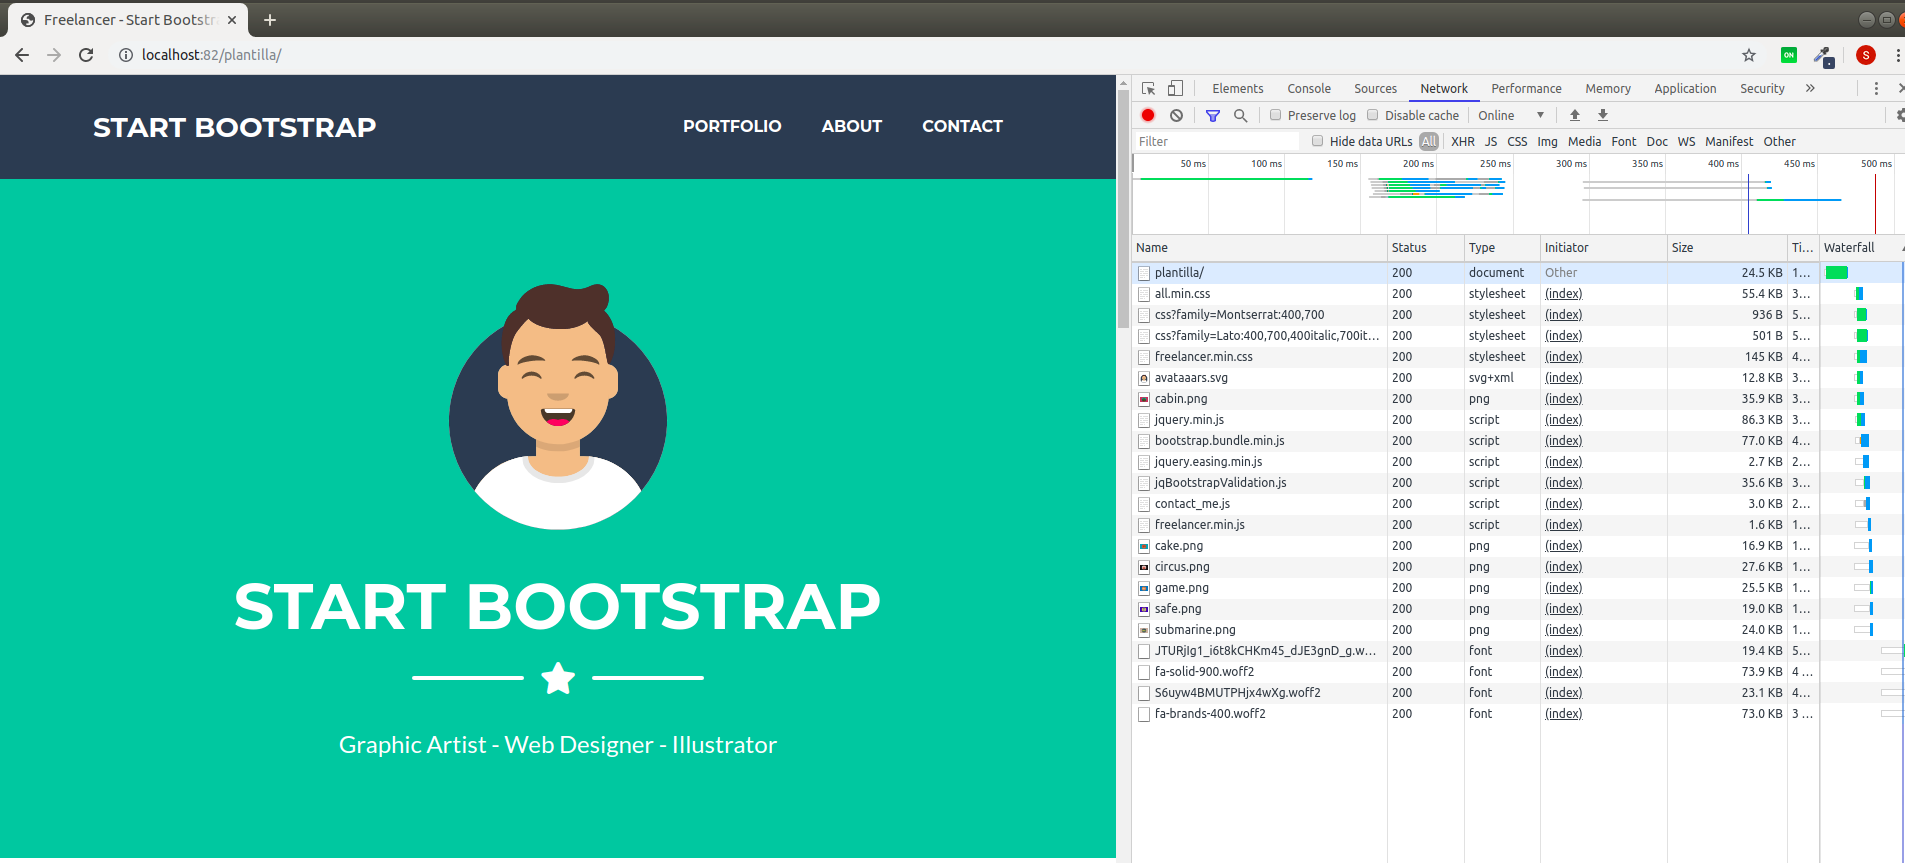
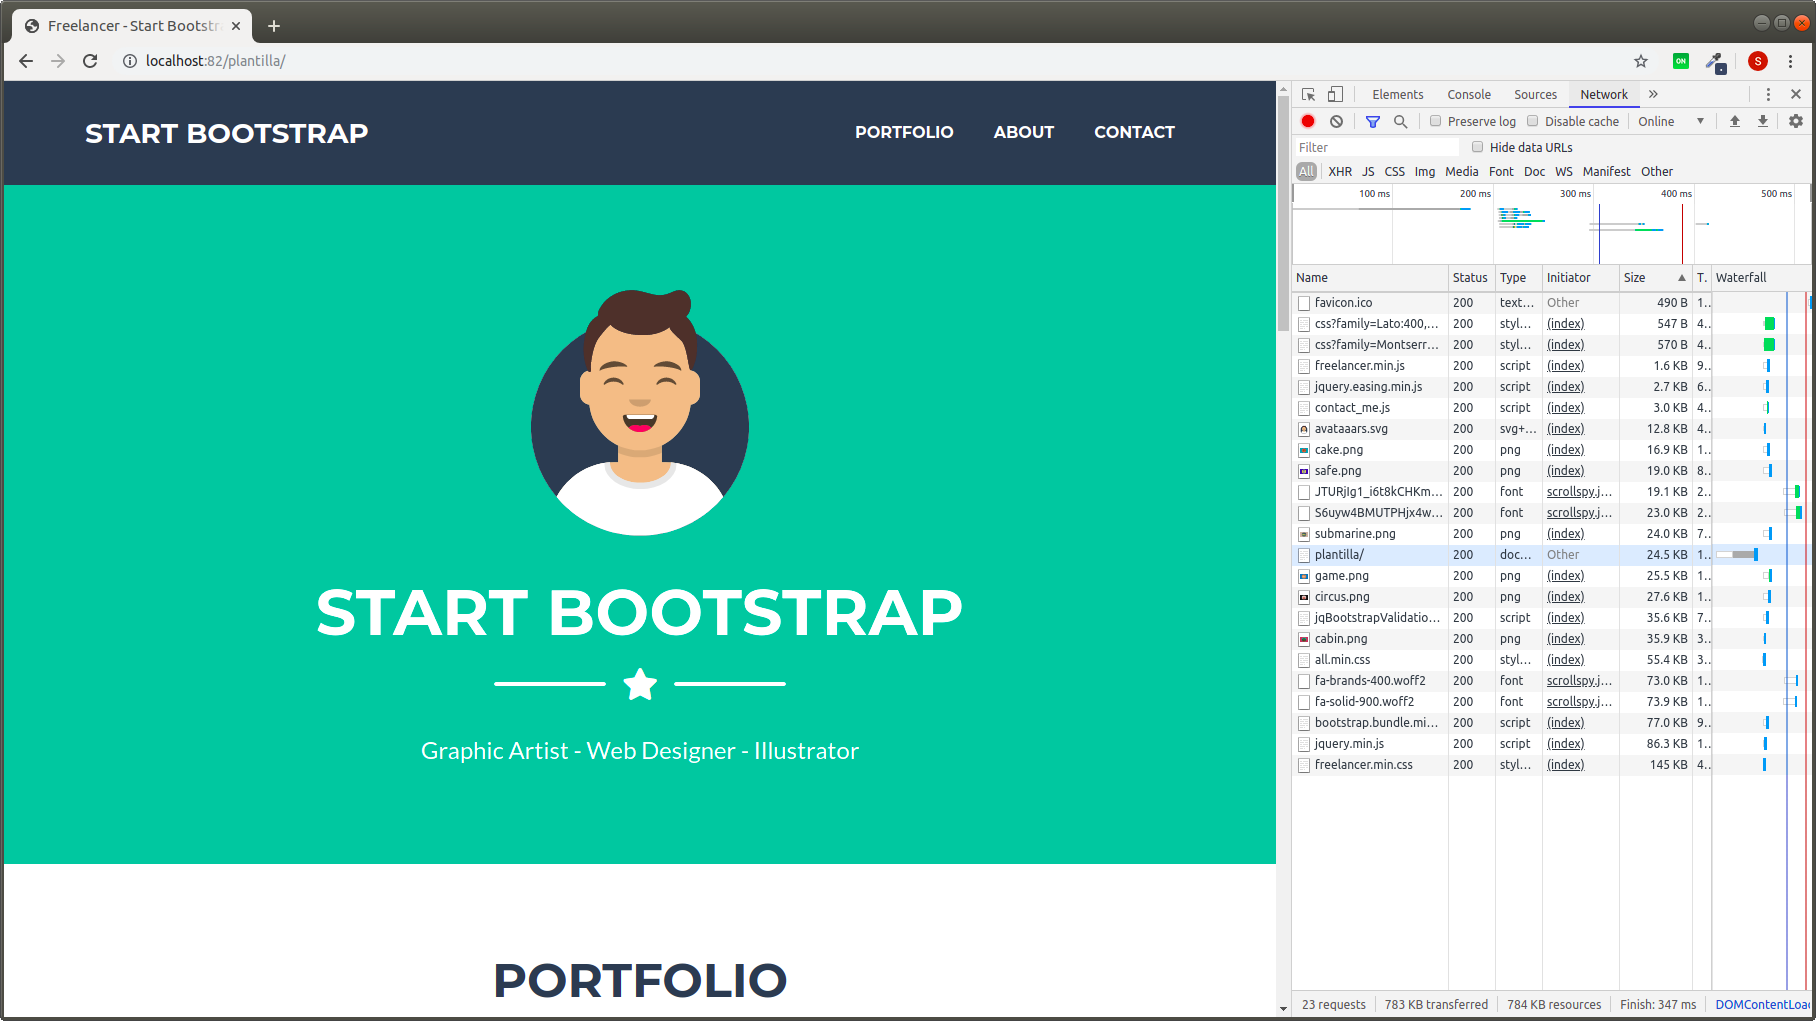
Solucionado: error en gzip

diff --git a/README.md b/README.md
@@ -234,7 +234,7 @@ Para ello utilizaremos **Gzip**. Gzip es un módulo de Nginx que se encarga de l
 
   ![img](img/captura23.png)
 
-- Entramos en el navegador y accedemos a la plantilla desde nuestra página en localhost:82/plantilla/ y en el apartado Network, observamos que su tamaño inicial es de 24,5 KB.
+- Entramos en el navegador y accedemos a la plantilla desde nuestra página en localhost:82/plantilla/ y en el apartado Network (parte inferior derecha) observamos que su tamaño inicial es de 784 KB transferidos.
 
   ![img](img/captura22.png)
 
@@ -250,7 +250,7 @@ Para ello utilizaremos **Gzip**. Gzip es un módulo de Nginx que se encarga de l
 
   - Reinciamos servidor.
 
-  - Volvemos a entrar al navegador y comprobamos que los datos se han comprimido y el tamaño ha pasado de 24,5 KB a 3,6 KB
+  - Volvemos a entrar al navegador y comprobamos que los datos se han comprimido y el tamaño de KB transferidos a pasado de 784 a 454.
 
      ![img](img/captura21.png)
 
